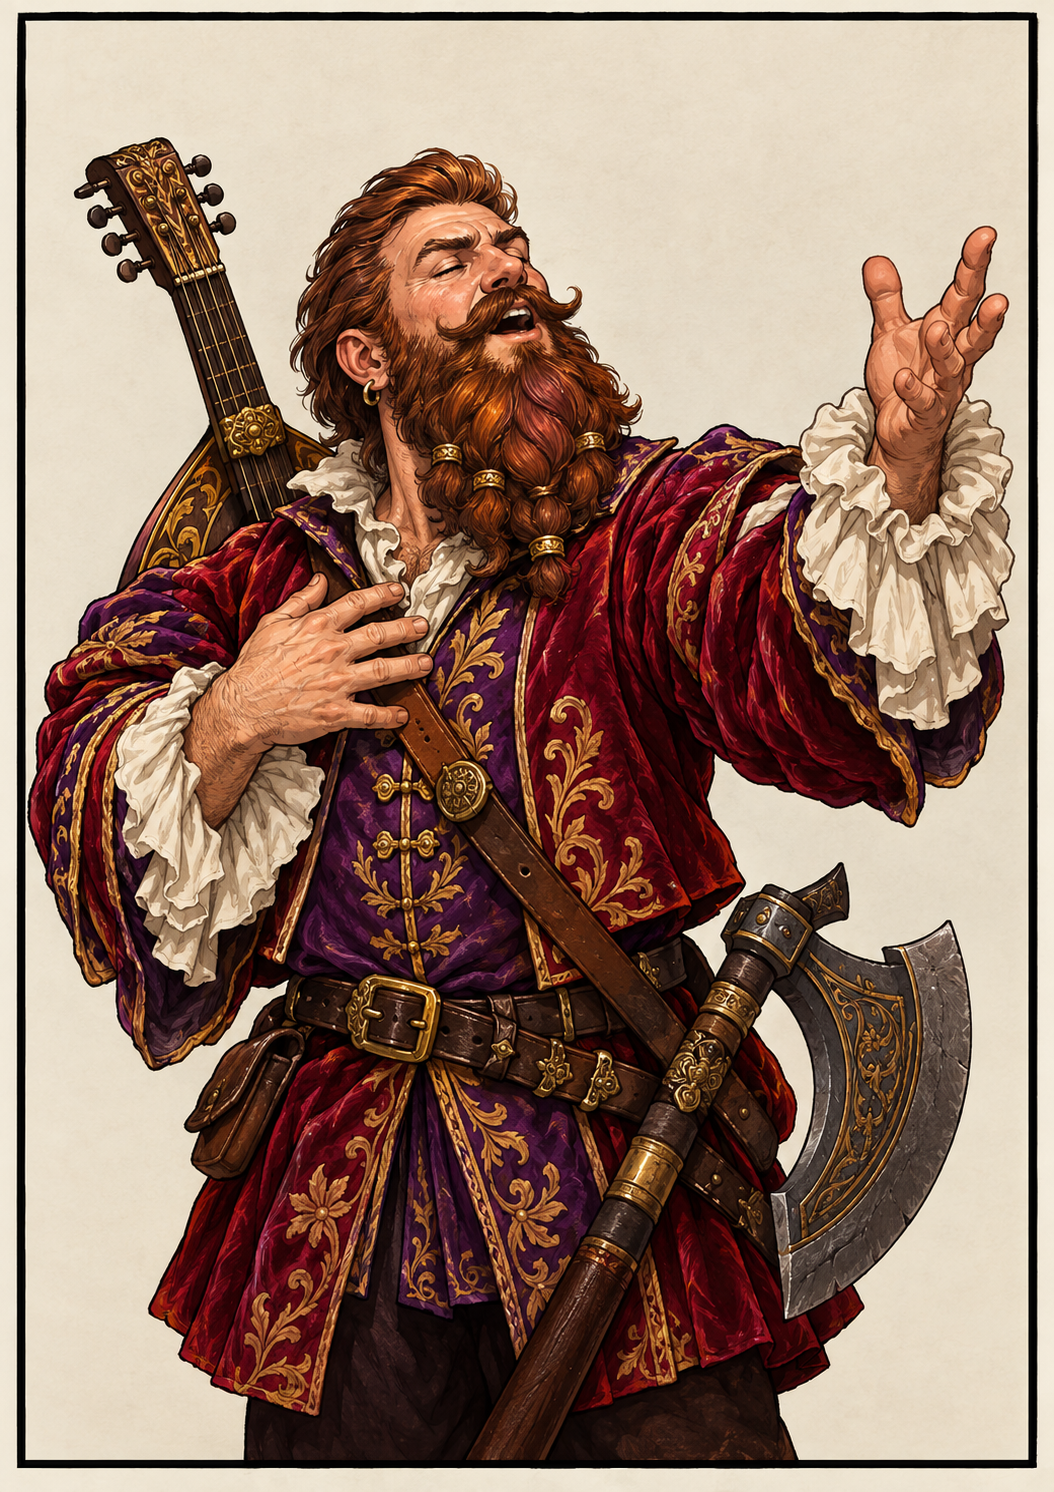
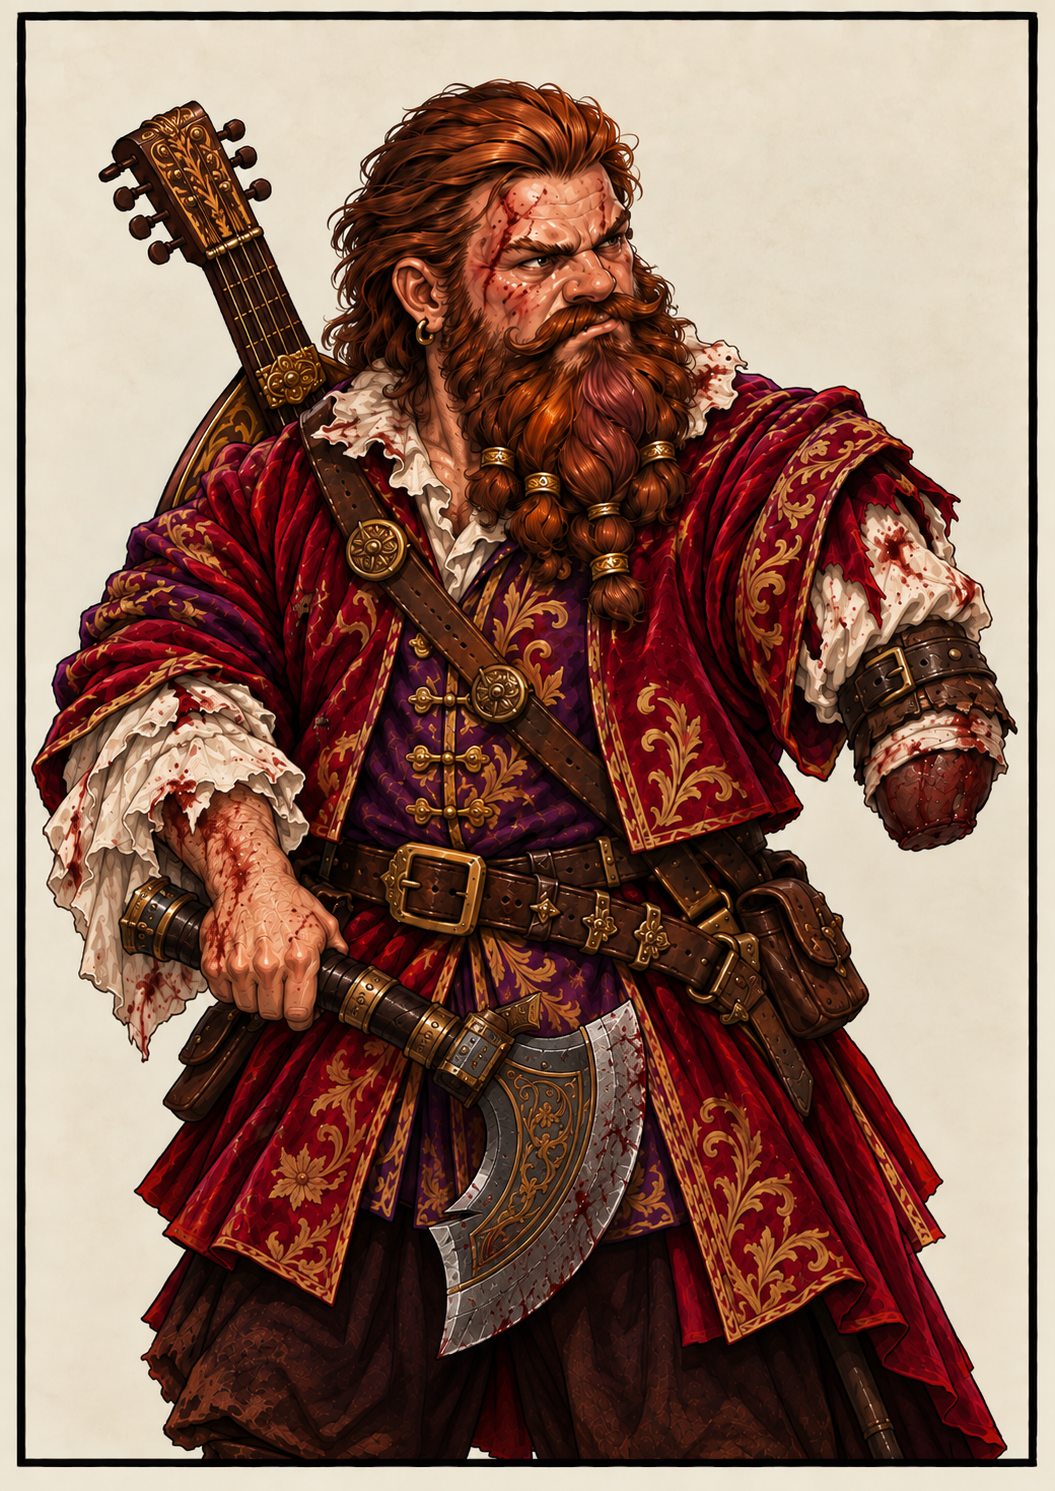
personagens: nelsowned — ficha de 164, retrato novo e foto fixada na planilha
Maneta aceita a -15, gastou 29 dos 35 pontos e fechou em 164 de 170: HT 13,
Machado/Maça 15, Trato Social 17, Lábia 15, Detecção de Mentiras 14, Manha 14,
Comércio 15, Diplomacia 12 e Política 13 com a Voz, Canto 19 e Sex-Appeal 15
subindo com o HT. Desvantagens em -55.

O retrato trocado precisa de "foto" no JSON: com a antiga arquivada na mesma
pasta, a detecção automática pega "foto-original.png" antes de "foto.png" por
ordem alfabética e a planilha sai com o rosto velho, sem aviso.

diff --git a/personagens/nelsowned/personagem.md b/personagens/nelsowned/personagem.md
@@ -1,6 +1,6 @@
 # NelsOwned — "O Pequeno Gigante da Canção"
 
-**Jogador:** André · **Raça:** Anão (*GURPS Fantasy*, 30 pts) · **Arquétipo:** Trovador (*GURPS Fantasy*) · **Pontos:** 150/150
+**Jogador:** André · **Raça:** Anão (*GURPS Fantasy*, 30 pts) · **Arquétipo:** Trovador (*GURPS Fantasy*) · **Pontos:** 170 (164 gastos, 6 sobrando)
 
 ## Aparência
 
@@ -24,9 +24,9 @@ machado.
 | ST | 13 (11 base + 2 racial) | 10 |
 | DX | 12 | 20 |
 | IQ | 13 | 30 |
-| HT | 12 | 20 |
+| HT | 13 | 30 |
 
-**Total Atributos: 80 pontos**
+**Total Atributos: 90 pontos**
 
 Bônus racial de Anão: +2 ST (já somado acima), +2 Fadiga, RD +1 natural, Longevidade, escala de
 Carga ampliada (2,5/5/10/15×ST) e -1 em Deslocamento por causa das pernas curtas — tudo incluído
@@ -35,10 +35,10 @@ no pacote racial de 30 pontos (ver Vantagens).
 ## Estatísticas Derivadas
 
 - **Fadiga:** 15 (ST 13 + 2 racial)
-- **Pontos de Vida:** 12
+- **Pontos de Vida:** 13
 - **Dano Básico:** GDP 1D / Bal 2D-1
-- **Velocidade Básica:** 6,0
-- **Deslocamento:** 5 (6,0 de Vel. Básica − 1 por pernas curtas de Anão; carga "Nenhuma" não penaliza)
+- **Velocidade Básica:** 6,25
+- **Deslocamento:** 5 (6,25 de Vel. Básica − 1 por pernas curtas de Anão; carga "Nenhuma" não penaliza)
 - **Carga (kg):** Nenhuma 13 · Leve 32,5 · Média 65 · Pesada 130 · Muito Pesada 195
 - **Defesa Passiva/RD:** 1 (RD natural de Anão — não usa armadura, só os veludos de palco)
 - **Esquiva:** 5 · **Aparar (Machado/Maça):** 7 · **Bloqueio:** —
@@ -57,10 +57,12 @@ no pacote racial de 30 pontos (ver Vantagens).
 | Excesso de Confiança | -10 |
 | Luxúria | -15 |
 | Hábito Detestável (trocadilhos de mau gosto) | -5 |
-| Maneta (mão esquerda) | 0 |
+| Maneta (mão esquerda) | -15 |
 
-**Vantagens: 67 pontos · Desvantagens pagas: -40 pontos** (no limite do projeto). Maneta entra
-com custo 0: desvantagem adquirida em jogo, sem pontos para gastar. O total continua 150.
+**Vantagens: 67 pontos · Desvantagens pagas: -55 pontos.** A Maneta saiu de custo 0 para o
+valor do livro, −15. Esses 15, mais os 20 da campanha, são os 35 pontos deste gasto. O teto
+de criação da mesa é −40; a coluna passou disso porque o Mestre aceitou a mão perdida como
+desvantagem permanente.
 
 Notas de arbitragem:
 - **Fanfarronice** — adora provocar e humilhar quem estiver ao alcance da voz; teste de Vontade
@@ -72,10 +74,9 @@ Notas de arbitragem:
 - **Hábito Detestável** — trocadilhos de mau gosto o tempo todo (a começar pelo próprio nome);
   -1 em testes de reação de quem tiver que aturá-lo.
 - **Maneta (mão esquerda)** — adquirida no fim da fuga (MB 12: HT 12 tirou 16, falha por 4).
-  O livro cobra -15 e manda baixar o total; o Mestre lançou a custo 0, sem ganho de pontos.
-  A mão direita está inteira. O que exige uma só mão sai sem redutor. O machado grande e o
-  alaúde exigem as duas mãos e não servem. Sem prótese. Machado/Maça 14 continua valendo
-  para uma arma de uma mão na direita.
+  Agora vale os −15 do livro (Maneta, uma mão). A mão direita está inteira. O que exige uma
+  só mão sai sem redutor. O machado grande e o alaúde exigem as duas mãos e não servem.
+  Sem prótese. Machado/Maça 15 vale para uma arma de uma mão na direita.
 
 ## Peculiaridades
 
@@ -91,29 +92,36 @@ Notas de arbitragem:
 
 | Perícia | NH | Tipo | Custo | Categoria |
 |---|---|---|---|---|
-| Machado/Maça | 14 | DX/M | 6 | Combate |
+| Machado/Maça | 15 | DX/M | 14 | Combate |
 | Trovador | 20 | IQ/M | 8 | Sociais |
-| Canto | 18 | HT/F | 4 | Sociais |
+| Canto | 19 | HT/F | 4 | Sociais |
 | Instrumento Musical (Alaúde) | 16 | IQ/D | 6 | Sociais |
-| Trato Social | 16 | IQ/F | 2 | Sociais |
-| Sex-Appeal | 14 | HT/M | 2 | Sociais |
+| Trato Social | 17 | IQ/F | 4 | Sociais |
+| Diplomacia | 12 | IQ/D | 0,5 | Sociais |
+| Política | 13 | IQ/M | 0,5 | Sociais |
+| Sex-Appeal | 15 | HT/M | 2 | Sociais |
 | Poesia | 14 | IQ/M | 4 | Sociais |
-| Detecção de Mentiras | 13 | IQ/M | 2 | Ladinas |
-| Manha | 13 | IQ/M | 2 | Ladinas |
-| Lábia | 14 | IQ/M | 4 | Ladinas |
+| Detecção de Mentiras | 14 | IQ/M | 4 | Ladinas |
+| Manha | 14 | IQ/M | 4 | Ladinas |
+| Lábia | 15 | IQ/M | 6 | Ladinas |
 | Dança | 13 | DX/M | 4 | Físicas |
-| Comércio | 14 | IQ/M | 4 | Profissionais |
+| Comércio | 15 | IQ/M | 6 | Profissionais |
 
-**Total Perícias: 48 pontos**
+**Total Perícias: 67 pontos**
 
 Notas de cálculo:
-- Anões têm Machado/Maça grátis em NH = DX; os 6 pontos pagos elevam de NH 12 para NH 14.
+- Anões têm Machado/Maça grátis em NH = DX; os 14 pontos pagos elevam de NH 12 para NH 15.
 - Trovador e Canto somam o bônus permanente de +2 da Voz Melodiosa (Trovador soma também +2
   de Carisma, conforme o próprio texto da perícia). Instrumento Musical e Canto usam o Talento
   Musical (+2) como bônus ao atributo-base só para fins de cálculo do custo de aprendizado.
+- Diplomacia e Política são novas, a ½ ponto cada. O nível comprado é IQ−3 (10) e IQ−2 (11).
+  O NH impresso soma +2 da Voz Melodiosa, como no Trovador: 12 e 13.
+- O HT 13 sobe Canto e Sex-Appeal em 1, no mesmo custo.
+- Dos 20 pontos de campanha foram gastos 14, depois de abater os 15 da Maneta. Sobram 6.
+  Trato Social segue 2 acima do que os pontos compram na tabela Fácil; este gasto só pagou o +1.
 
 Em combate, o "ataque" mais temido de NelsOwned não está na ficha como perícia própria: é a
-narrativa de usar Trovador/Lábia/Canto (NH 20/14/18) para debochar de um inimigo em plena
+narrativa de usar Trovador/Lábia/Canto (NH 20/15/19) para debochar de um inimigo em plena
 melodia, buscando gerar vergonha, distração ou um teste de reação/Vontade ruim antes de sacar o
 machado — que ele leva como plano B.
 
@@ -138,9 +146,10 @@ esquerda perdida, não empunha.
 
 | Categoria | Pontos |
 |---|---|
-| Atributos | 80 |
+| Atributos | 90 |
 | Vantagens | 67 |
-| Desvantagens | -40 |
+| Desvantagens | -55 |
 | Peculiaridades | -5 |
-| Perícias | 48 |
-| **Total** | **150** |
+| Perícias | 67 |
+| **Total** | **164** |
+| Orçamento | 170 |
